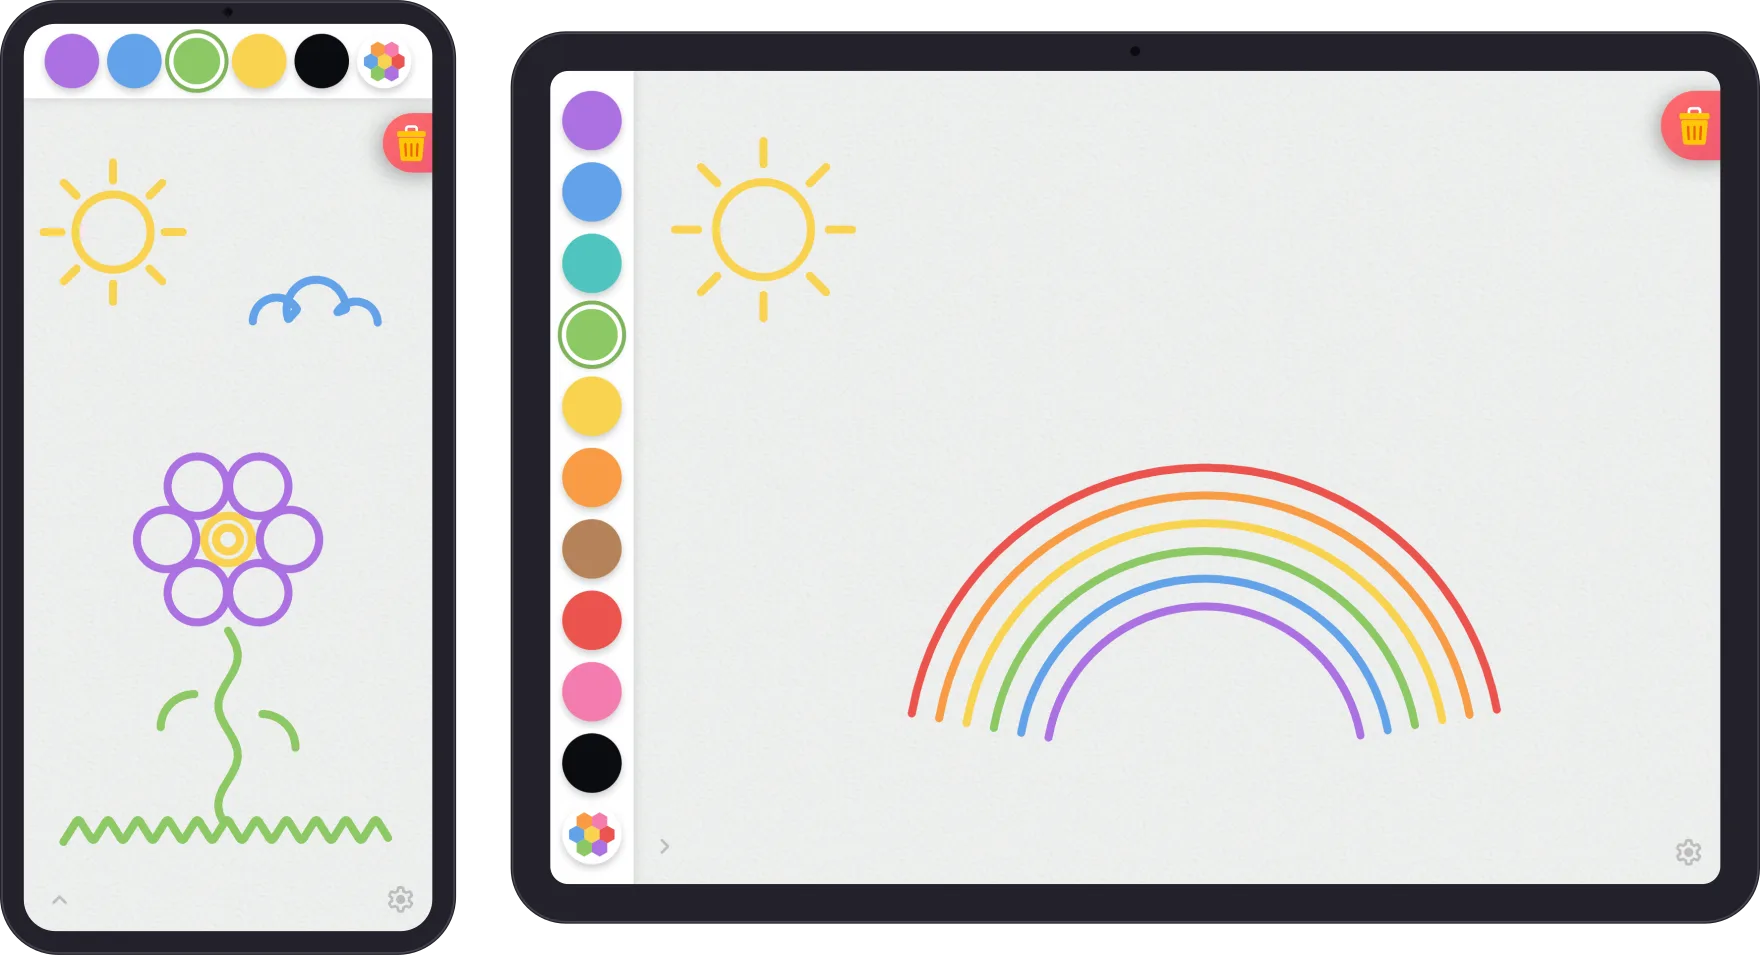
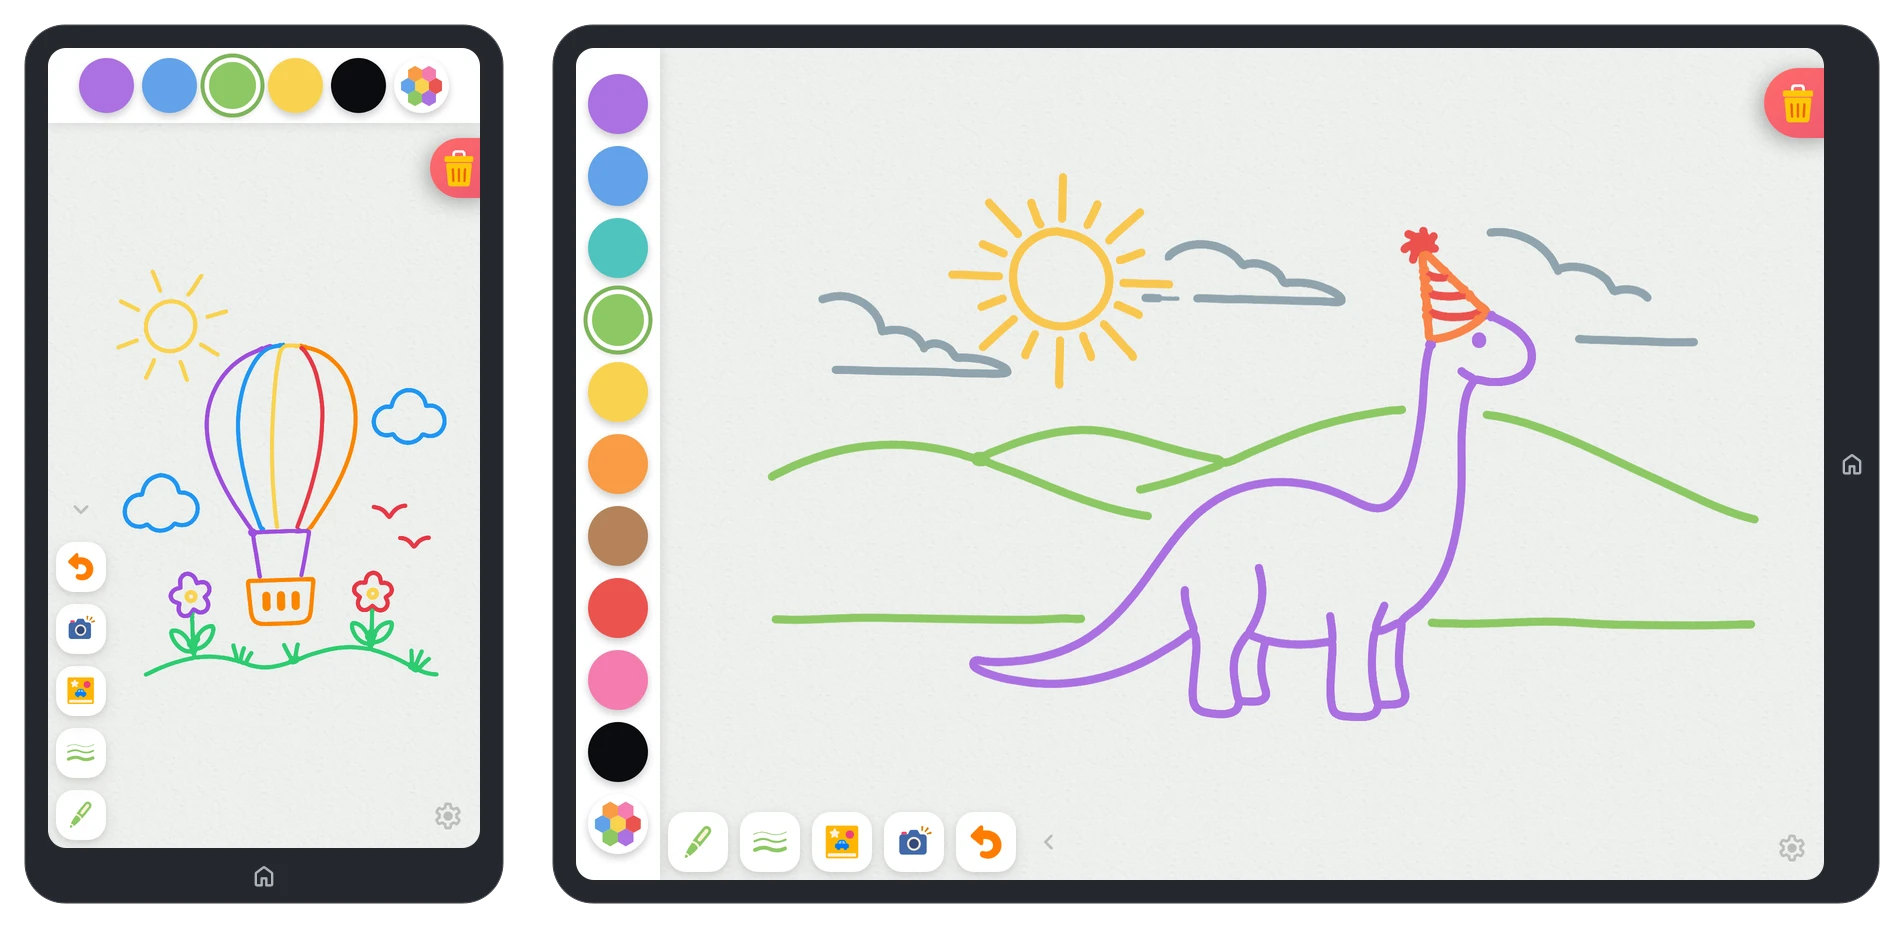
Add reproducible README hero capture with generic device frames

Changed region(s): [[0.0, 0.0, 1.0, 1.0], [0.4062, 0.4375, 0.5938, 0.5312]]

diff --git a/tools/marketing-assets/README.md b/tools/marketing-assets/README.md
@@ -13,6 +13,7 @@ against a hot-reloading page and this tooling only captures and screenshots.
 | --------------------------- | ---------------------------------------- | ----------------------------------- |
 | `gen-promotional-image.mjs` | `npm run gen:promotional-image`          | `web/static/large-image.png`        |
 | `gen-store-assets.mjs`      | `npm run gen:store-assets` (+ `:frames`) | `store-assets/` screenshots/graphic |
+| `gen-readme-hero.mjs`       | `npm run gen:readme-hero`                | `docs/assets/readme-hero.webp`      |
 
 The output filename `large-image.png` remains unchanged because it is the social/link-preview image
 served from `web/static/` for Open Graph and Twitter cards. The generator replays
@@ -26,6 +27,33 @@ changing the shipped artifact. The separate Google Play feature graphic is
 the real app canvas, and captures the 1920×1080 PNG. The Open Graph and Twitter metadata in
 `web/src/app.html` depend on those dimensions, with `web/tests/page.spec.ts` guarding agreement. The
 command replaces the committed PNG only after the live-app replay succeeds.
+
+## README hero
+
+```sh
+npm run gen:readme-hero -- --port 5199
+# Preview without replacing the README asset:
+npm run gen:readme-hero -- --port 5199 --out screenshots/readme-hero.webp
+```
+
+The portrait phone replays `tools/store-drawings/samples/balloon-tall.svg`; the landscape tablet
+replays `dinosaur-wide.svg` from the same directory. Both use their named functions from
+`tools/store-drawings/generated/store-drawings.mjs` through the live drawing engine (ADR-0122).
+After editing either SVG, run `npm run gen:store-drawings` before recapturing.
+
+The generator starts its own dev server with the harness enabled and refuses an occupied port;
+choose an unused `--port` when another worktree is running. It needs installed project dependencies
+and Playwright Chromium. It verifies the server's checkout identity, captures each drawing at 2×
+resolution, checks for ink, and uses Sharp to compose a transparent WebP. The generic device frames
+share one outer-height constant and align at their top and bottom edges. The app's home icon sits
+below the phone screen and to the right of the tablet screen. Frame geometry and art insets live in
+`gen-readme-hero.mjs`; shared capture-mode and free-grant setup lives in
+`lib/capture-preparation.mjs` (ADR-0123).
+
+The browser and owned server are closed on success or failure. The output is replaced atomically
+only after both captures and composition succeed. Raw screenshots stay in memory. Review the final
+image at README display size after regenerating it; update the README alt text if the subjects
+change. This is an on-demand command, not a build hook.
 
 ## Store assets
 
@@ -48,13 +76,14 @@ shows and the publishing runbook.
 
 ## Prerequisites and failure behavior
 
-Both commands need installed project dependencies, Playwright Chromium, and the serving port
-(`--port`, default 4173) free or already serving **this checkout**. `gen-promotional-image.mjs`
-starts or reuses a dev server; `gen-store-assets.mjs` needs a **production preview** (the
-coloring-pack manifest and the dev-harness seam its scenes depend on), so with the port free it runs
-`PUBLIC_ENABLE_DEV_HARNESS=true npm run build` and serves the result with `vite preview` (the
-preview process also gets `PUBLIC_ENABLE_DEV_HARNESS=true`, opening the server-side gate on
-`/dev/store-frames`). Both halves matter to capture mode (`web/src/lib/storeCapture.ts`,
+The promotional and store commands need installed project dependencies, Playwright Chromium, and the
+serving port (`--port`, default 4173) free or already serving **this checkout**.
+`gen-promotional-image.mjs` starts or reuses a dev server; `gen-store-assets.mjs` needs a
+**production preview** (the coloring-pack manifest and the dev-harness seam its scenes depend on),
+so with the port free it runs `PUBLIC_ENABLE_DEV_HARNESS=true npm run build` and serves the result
+with `vite preview` (the preview process also gets `PUBLIC_ENABLE_DEV_HARNESS=true`, opening the
+server-side gate on `/dev/store-frames`). Both halves matter to capture mode
+(`web/src/lib/storeCapture.ts`,
 [ADR-0123](../../docs/adrs/0123-capture-mode-flag-for-store-screenshots.md)): its flag is a
 compile-time literal, so a preview served from a bundle built **without** it still renders every
 frame and still puts the wand button's free-generation count back into each capture — the one

diff --git a/docs/CONTRIBUTING.md b/docs/CONTRIBUTING.md
@@ -255,7 +255,9 @@ project-relative, and the broad `/tmp` scope is deliberate for session scratch f
 ## Images
 
 * **Docs-only images** (README screenshots and the like) live in `docs/assets/`, committed as
-  optimized `.webp` — never raw PNGs.
+  optimized `.webp` — never raw PNGs. Regenerate the README hero with
+  `npm run gen:readme-hero -- --port <unused-port>`; source art and capture details are in
+  [the marketing-asset runbook](../tools/marketing-assets/README.md#readme-hero).
 * **Shipped PNGs** under `web/static/` get a WebP sibling before committing:
   `node tools/asset-gen/convert-png-to-webp.mjs`.
 * **Committed run outputs** (proof sheets, Lighthouse reports, model tests) belong in

diff --git a/README.md b/README.md
@@ -8,7 +8,7 @@ touch the screen and scribble. Grown-up stuff stays safely out of reach behind a
 **Try it right now at [splotch.art](https://splotch.art/)** — it's an offline-first PWA on the web,
 and the same codebase ships as native Android and iOS apps.
 
-![Splotch on a portrait Android phone showing a child's flower drawing, next to a landscape iPad showing a rainbow drawing](docs/assets/readme-hero.webp)
+![Splotch on a portrait phone showing a hot-air balloon drawing, beside an equal-height landscape tablet showing a dinosaur drawing](docs/assets/readme-hero.webp)
 
 ## What can it do?
 
